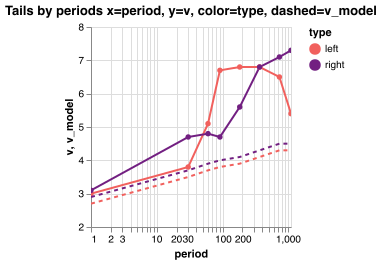
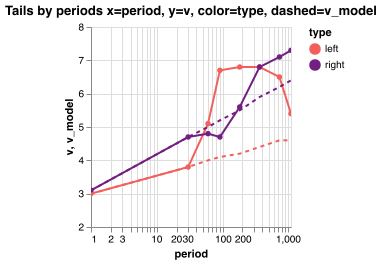
upd

diff --git a/tail/readme.md b/tail/readme.md
@@ -1,3 +1,98 @@
+Estimating tail exponent of stock log returns
+
+Run `julia tail/tail.jl`.
+
+### Goal
+
+Estimate left and right tails for stock log returns for different periods 1d, 30d, 365d periods
+and volatility levels, from historical data.
+
+Normal US NYSE+NASDAQ stock only, no penny stock like AMEX or OTC.
+
+### Results
+
+![](readme/tails-by-periods-x-period-y-color-type-dashed-model.png)
+
+Data has 3.4m days. Reliable estimation require 10k sample size or <340d periods, rough
+estimation 5k or <680d. And if grouped by 10 volatility levels <34d and for 5 vol levels <68d.
+
+**1d: ν_l=2.7, ν_r=2.9**, normalised returns. It depends how returns
+normalised, varying 2.7-3.2.
+
+For larger periods: **30d: ν_l=3.5, ν_r=3.7**. Note 30d has x30 less data than 1d returns,
+still it should be enough to estimate the tail. Periods >=60d less realiable, they have much
+less data, and maybe the data bias more prominent.
+
+Mathematically the exponent should be resistant to aggregation `Pr(X>x|for large x) ~ Cx^-ν`, but
+it may not be true for a) if x sampled from differrent distributions and b) pre asymptotic
+c) bounded x.
+
+In my opinion larger periods follow `ν = a + b log T`, solving it for 1d and 30d:
+
+```
+ν_l(t) = 2.7 + 0.2352log(t)
+ν_r(t) = 2.9 + 0.2352log(t)
+```
+
+Data has both omission (bankrupts) and comission biases - so tails may be a bit wrong.
+
+### Methodology
+
+- Historical log returns `log r_t2 = log S_t/S_t2` for `t in [1d, 30d, ..., 1095d]`.
+- Volatility `nvol_t = 0.8 current_vol_t + 0.2 historical_vol`, where current over recent period
+  `EMA[MAD[log r]]*sqrt(pi/2)` and historical `MAD[log r]*sqrt(pi/2)` over long period.
+- Normalise log returns as `log r_t2 / nvol_t`, each return individually.
+- Decluster per stock, allow no more than 1 tail event within window = 30d for 1d returns and
+  larger windows for longer periods.
+- Allow clusters across stocks - when many stock drop on same day.
+- EVT POT GPD approach with [DEDH-HILL](/tail-estimator) estimator.
+
+### Other studies
+
+Results depend on return normalisation, so may be different.
+
+**Study1**: [Tail Index Estimation: QuantileDriven Threshold Selection](https://www.bankofcanada.ca/wp-content/uploads/2019/08/swp2019-28.pdf)
+, one of authors is Laurens de Haan, pioneer of EVT and inventor of one of the best estimators
+"DEDH", so I guess numbers they got analysing CRSP stock returns are worth to consider.
+
+Results from KS estimator: left tail 3.4, right tail 2.97 from [Table 7](docs/study1-table7.jpg).
+Estimator has bias 3/2.85 from [Table 1](docs/study1-table1.jpg). Correcting results left tail
+3.4 * 3/2.85 = 3.58, right tail 2.97 * 3/2.85 = 3.13.
+
+**Study2**: various mentions by N. Taleb that tails ~3.
+
+### Data
+
+Daily prices of 250 stocks all starting with 1972, [details](/hist_data)`.
+
+1d and 30d returns calculated with moving window(size=30, step-30).
+
+For larger periods >=60d, cacluation a bit more complex, using cohorts, you can ignore details
+and just consider it as multiple version of same returns, you will see it as multiple lines
+on plots with periods >=60d. It's used to get more information from the data and avoid
+overlapping bias, correlation, returns calculated as moving window(start=cohort, size=period,
+step=period), each cohort shifts initial position by +30.
+
+### Questions
+
+I used unusual estimator [Tail Estimator](/tail-estimator) that in my opinion is much better and
+apply normalisation by volatility and choose tail threshold differently.
+
+My data is biased, no bankrupts, if you have access to full market unbiased data,
+**let me know** please, I would be interested to analyse it.
+
+If you find errors or know a better way, let me know please.
+
+### TODO
+
+- In order to avoid submission bias - estimate tail for each stock individually and analyse it.
+- Calculate credible intervals.
+
+### Tails, normalised
+
+1d tails on chart start with lower probability because 1d has more data and higher treshold
+quantile.
+
 Left Tail (Norm) x=survxn, y=survy(cohort), dashed=survy_m by=period
 
 ![Left Tail (Norm) x=survxn, y=survy(cohort), dashed=survy_m by=period](readme/left-tail-norm-x-survxn-y-survy-cohort-dashed-survy-m-by-period.png)
@@ -9,9 +104,9 @@ Left Tail (Norm) by periods
  Row │ period  ν        ν_model
      │ Int64   Float64  Float64
 ─────┼──────────────────────────
-   1 │      1      3.0      2.7
-   2 │     30      3.8      3.5
-   3 │     60      5.1      3.7
+   1 │      1      3.0      3.0
+   2 │     30      3.8      3.8
+   3 │     60      5.1      4.0
 ```
 
 Right Tail (Norm) x=survxn, y=survy(cohort), dashed=survy_m by=period
@@ -25,9 +120,9 @@ Right Tail (Norm) by periods
  Row │ period  ν        ν_model
      │ Int64   Float64  Float64
 ─────┼──────────────────────────
-   1 │      1      3.1      2.9
-   2 │     30      4.7      3.7
-   3 │     60      4.8      3.9
+   1 │      1      3.1      3.1
+   2 │     30      4.7      4.7
+   3 │     60      4.8      5.0
 ```
 
 ### Tails by Vol, normalised
@@ -241,14 +336,14 @@ Left Tail all Periods (Norm) by periods
  Row │ period  ν        ν_model
      │ Int64   Float64  Float64
 ─────┼──────────────────────────
-   1 │      1      3.0      2.7
-   2 │     30      3.8      3.5
-   3 │     60      5.1      3.7
-   4 │     91      6.7      3.8
-   5 │    182      6.8      3.9
-   6 │    365      6.8      4.1
-   7 │    730      6.5      4.3
-   8 │   1095      5.4      4.3
+   1 │      1      3.0      3.0
+   2 │     30      3.8      3.8
+   3 │     60      5.1      4.0
+   4 │     91      6.7      4.1
+   5 │    182      6.8      4.2
+   6 │    365      6.8      4.4
+   7 │    730      6.5      4.6
+   8 │   1095      5.4      4.6
 ```
 
 Right Tail all Periods (Norm) x=survxn, y=survy(cohort), dashed=survy_m by=period
@@ -262,14 +357,14 @@ Right Tail all Periods (Norm) by periods
  Row │ period  ν        ν_model
      │ Int64   Float64  Float64
 ─────┼──────────────────────────
-   1 │      1      3.1      2.9
-   2 │     30      4.7      3.7
-   3 │     60      4.8      3.9
-   4 │     91      4.7      4.0
-   5 │    182      5.6      4.1
-   6 │    365      6.8      4.3
-   7 │    730      7.1      4.5
-   8 │   1095      7.3      4.5
+   1 │      1      3.1      3.1
+   2 │     30      4.7      4.7
+   3 │     60      4.8      5.0
+   4 │     91      4.7      5.2
+   5 │    182      5.6      5.5
+   6 │    365      6.8      5.9
+   7 │    730      7.1      6.2
+   8 │   1095      7.3      6.4
 ```
 
 Tails by periods x=period, y=ν, color=type, dashed=ν_model
